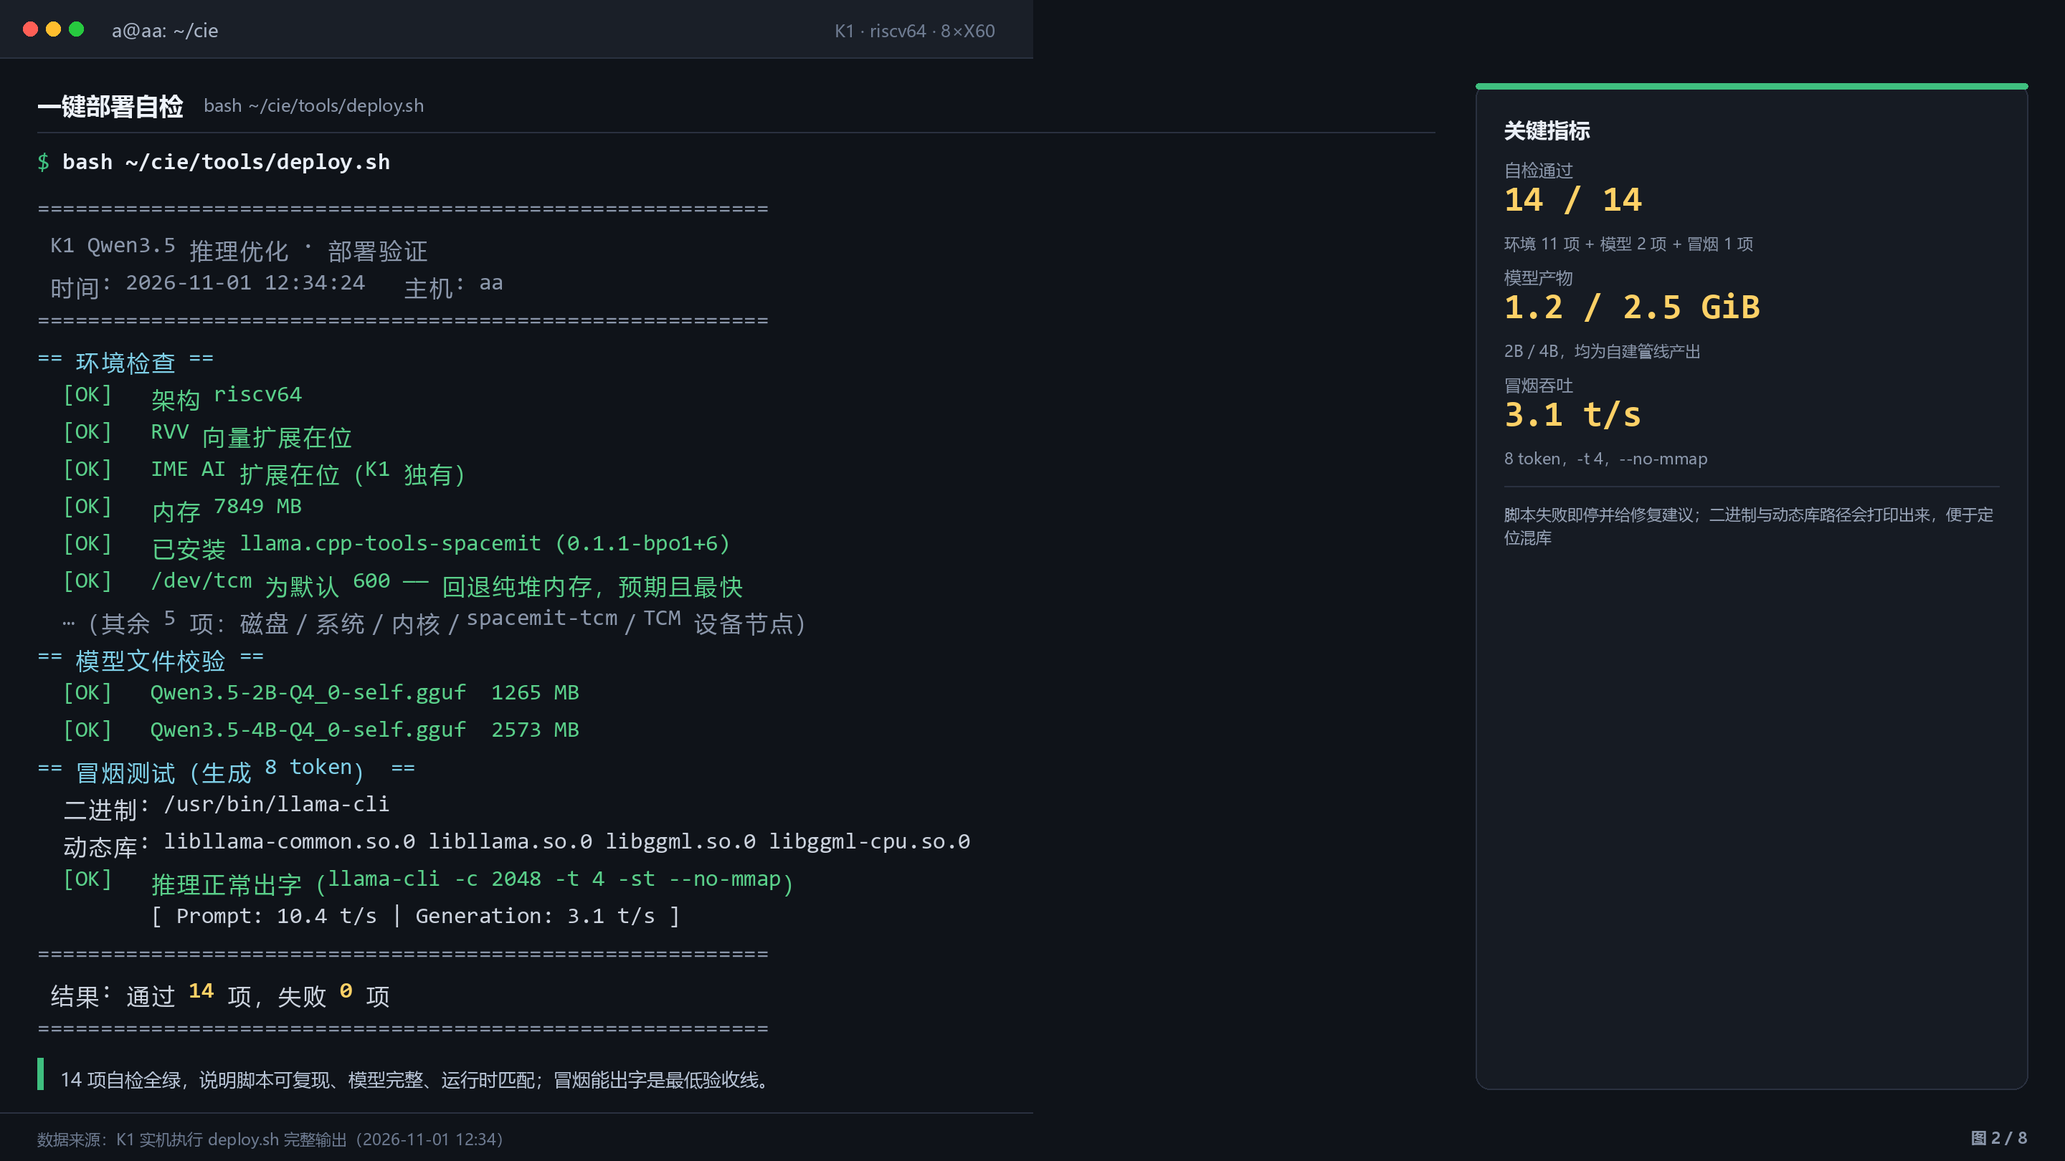
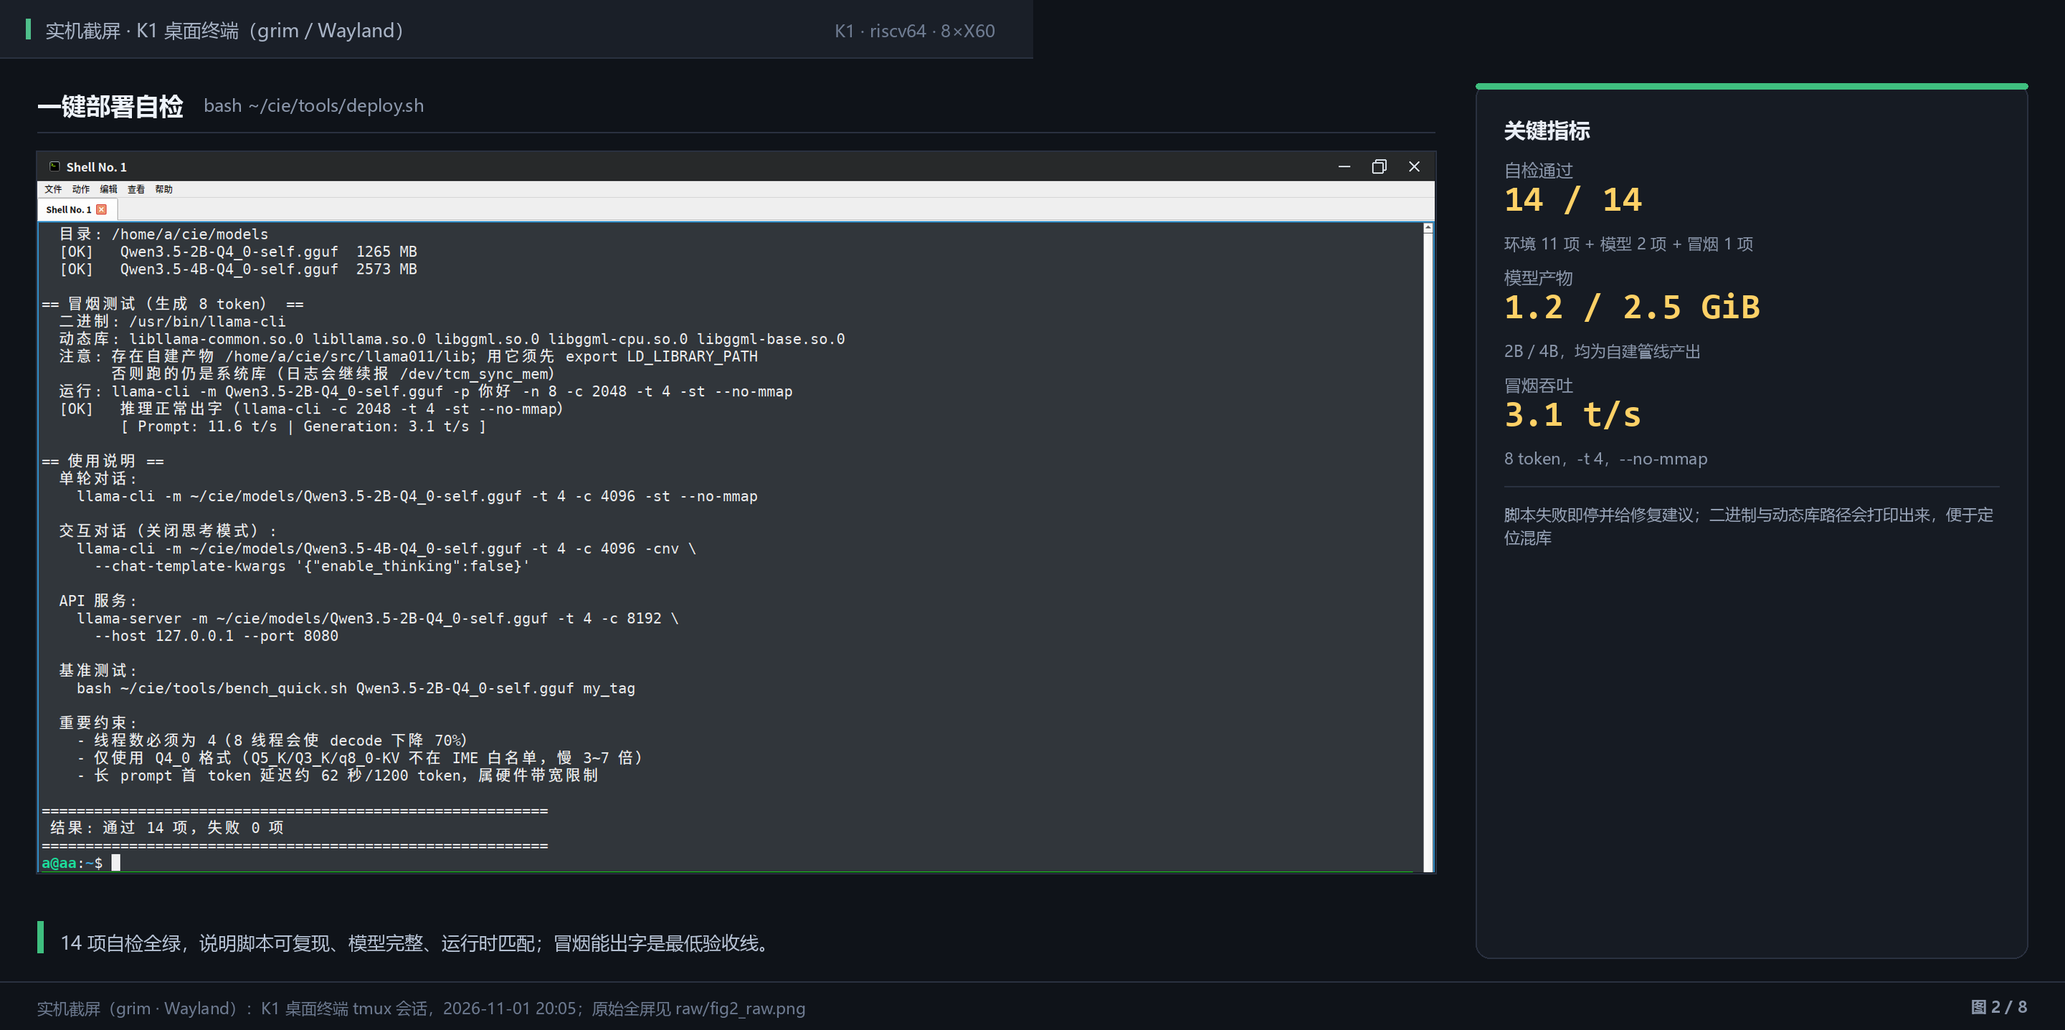
feat(demo): 图1~4 改为 K1 真机截屏；修复 deploy 冒烟在终端里误判失败
截屏方式：K1 是 Wayland（labwc），ffmpeg x11grab 只能抓到空的 Xwayland 根窗口，
改用 grim + tmux send-keys 逐条敲命令，命令跑完后整屏截取；原始全屏图存 raw/。

同时修掉两个真 bug：
1. deploy.sh 冒烟在桌面终端里误判失败——llama.cpp 的 console 存在 /dev/tty 时
   直接写 tty，绕过 $(...) 管道，导致 SMOKE_OUT 为空、grep 不中，
   日志出现自相矛盾的「[FAIL] 正常」（rc 其实是 0）。修复：setsid 脱离控制终端 + </dev/null。
2. 该脚本此前被写成 CRLF 行尾，K1 的 bash 直接语法错误；已统一为 LF。

文档：DEPLOY.md §5.8 记录该陷阱与三种运行方式的对照表；
DEMO_SHOTS.md 改为「实机截屏 / 整理图」两类如实说明，图5~8 标注为非截屏。

diff --git a/tools/make_shots.py b/tools/make_shots.py
@@ -21,6 +21,7 @@ from PIL import Image, ImageDraw, ImageFont
 
 ROOT = os.path.dirname(os.path.dirname(os.path.abspath(__file__)))
 OUT = os.path.join(ROOT, "docs", "figs", "demo")
+RAW = os.path.join(OUT, "raw")
 
 # ---------------- 版式常量（逻辑像素，输出按 S 倍采样） ----------------
 S = 2
@@ -139,6 +140,24 @@ def wrap_px(text, font, maxw):
     return lines
 
 
+
+def autocrop_term(src, margin=28):
+    """裁掉终端里没有内容的空白行：从下往上找最后一行有亮像素的位置。"""
+    g = src.convert("L")
+    wx, wy = g.size
+    last = int(wy * 0.62)
+    px = g.load()
+    for y in range(min(wy - 30, 990), 55, -1):
+        hit = False
+        for x in range(30, wx - 30, 4):
+            if px[x, y] > 90:
+                hit = True
+                break
+        if hit:
+            last = y + margin
+            break
+    return src.crop((0, 0, wx, min(last, wy - 22)))
+
 def draw_card(d, card, x0, y0, x1, y1):
     r = 10 * S
     d.rounded_rectangle([x0, y0, x1, y1], radius=r, fill=C_CARD, outline=C_LINE, width=S)
@@ -182,7 +201,7 @@ def draw_card(d, card, x0, y0, x1, y1):
 def draw_takeaway(d, spec, x, right, near=None):
     text = spec.get("takeaway")
     if not text:
-        return
+        return None
     size = 13 * S
     f = F("cjk", size)
     lines = wrap_px(text, f, right - x - 18 * S)
@@ -194,6 +213,7 @@ def draw_takeaway(d, spec, x, right, near=None):
     for ln in lines:
         d.text((tx, y), ln, font=f, fill="#b8c4d6")
         y += 18 * S
+    return y
 
 # ---------------- 两种版式 ----------------
 def render_terminal(spec, path):
@@ -202,10 +222,15 @@ def render_terminal(spec, path):
 
     # 顶栏
     d.rectangle([0, 0, W, BAR_H * S], fill=C_BAR)
-    for i, col in enumerate(("#ff5f56", "#ffbd2e", "#27c93f")):
-        cx = (16 + i * 16) * S
-        d.ellipse([cx, 15 * S, cx + 10 * S, 25 * S], fill=col)
-    d.text((78 * S, 12 * S), spec["win"], font=F("cjk", 13 * S), fill="#a9b4c6")
+    if spec.get("chrome", True):
+        for i, col in enumerate(("#ff5f56", "#ffbd2e", "#27c93f")):
+            cx = (16 + i * 16) * S
+            d.ellipse([cx, 15 * S, cx + 10 * S, 25 * S], fill=col)
+        tx = 78 * S
+    else:
+        d.rectangle([18 * S, 13 * S, 21 * S, 27 * S], fill="#4fbf8b")
+        tx = 32 * S
+    d.text((tx, 12 * S), spec["win"], font=F("cjk", 13 * S), fill="#a9b4c6")
     d.text((W - PAD * S - F("cjk", 12 * S).getlength(spec["chip"]), 13 * S),
            spec["chip"], font=F("cjk", 12 * S), fill="#6f7c92")
     d.line([0, BAR_H * S, W, BAR_H * S], fill=C_LINE, width=S)
@@ -227,7 +252,7 @@ def render_terminal(spec, path):
     d.line([x, y, body_r * S, y], fill=C_LINE, width=S)
     y += 14 * S
 
-    for kind, text in spec["lines"]:
+    for kind, text in spec.get("lines", []):
         col, bold, is_prompt = KIND_STYLE.get(kind, (C_FG, False, False))
         if kind == "p":
             d.text((x, y), "$ ", font=F("mono", size), fill=C_GREEN)
@@ -240,16 +265,41 @@ def render_terminal(spec, path):
         draw_term_line(d, x, y, text, size, col, adv, bold)
         y += lh
 
-    draw_takeaway(d, spec, x, body_r * S)
+    shotfile = spec.get("shot")
+    if shotfile:
+        src = Image.open(shotfile).convert("RGB")
+        box = spec.get("shot_crop")
+        if box:
+            src = src.crop(box)
+        if spec.get("autocrop", True):
+            src = autocrop_term(src)
+        top = y
+        avail_w = (body_r - PAD) * S
+        avail_h = (H - FOOT_H - 58) * S - top
+        sc = min(avail_w / src.width, avail_h / src.height)
+        src = src.resize((int(src.width * sc), int(src.height * sc)), Image.LANCZOS)
+        d.rectangle([x - S, top - S, x + src.width + S, top + src.height + S], outline=C_LINE, width=S)
+        img.paste(src, (int(x), int(top)))
+        y = top + src.height
+
+    y_end = draw_takeaway(d, spec, x, body_r * S, near=(y if shotfile else None))
+
+    # 截图图按内容裁掉多余下边，避免大片空白
+    if shotfile and y_end:
+        need = int(y_end + 18 * S + FOOT_H * S)
+        if need < img.height:
+            img = img.crop((0, 0, img.width, need))
+            d = ImageDraw.Draw(img)
+    bottom = img.height
 
     if card:
-        draw_card(d, card, int(W * 0.715) * S, (BAR_H + 18) * S, (W - PAD) * S, (H - FOOT_H - 16) * S)
+        draw_card(d, card, int(W * 0.715) * S, (BAR_H + 18) * S, (W - PAD) * S, bottom - (FOOT_H + 16) * S)
 
     # 底栏
-    d.line([0, (H - FOOT_H) * S, W, (H - FOOT_H) * S], fill=C_LINE, width=S)
-    d.text((PAD * S, (H - FOOT_H + 11) * S), spec["source"], font=F("cjk", 11 * S), fill="#6d7a90")
+    d.line([0, bottom - FOOT_H * S, W * S, bottom - FOOT_H * S], fill=C_LINE, width=S)
+    d.text((PAD * S, bottom - FOOT_H * S + 11 * S), spec["source"], font=F("cjk", 11 * S), fill="#6d7a90")
     tag = "图 %s" % spec["no"]
-    d.text((W * S - PAD * S - F("cjkb", 11 * S).getlength(tag), (H - FOOT_H + 10) * S),
+    d.text((W * S - PAD * S - F("cjkb", 11 * S).getlength(tag), bottom - FOOT_H * S + 10 * S),
            tag, font=F("cjkb", 11 * S), fill="#8b97ab")
 
     os.makedirs(os.path.dirname(path), exist_ok=True)
@@ -339,10 +389,15 @@ def render_table(spec, path):
     img = Image.new("RGB", (W * S, H * S), C_BG)
     d = ImageDraw.Draw(img)
     d.rectangle([0, 0, W, BAR_H * S], fill=C_BAR)
-    for i, col in enumerate(("#ff5f56", "#ffbd2e", "#27c93f")):
-        cx = (16 + i * 16) * S
-        d.ellipse([cx, 15 * S, cx + 10 * S, 25 * S], fill=col)
-    d.text((78 * S, 12 * S), spec["win"], font=F("cjk", 13 * S), fill="#a9b4c6")
+    if spec.get("chrome", True):
+        for i, col in enumerate(("#ff5f56", "#ffbd2e", "#27c93f")):
+            cx = (16 + i * 16) * S
+            d.ellipse([cx, 15 * S, cx + 10 * S, 25 * S], fill=col)
+        tx = 78 * S
+    else:
+        d.rectangle([18 * S, 13 * S, 21 * S, 27 * S], fill="#e8b33c")
+        tx = 32 * S
+    d.text((tx, 12 * S), spec["win"], font=F("cjk", 13 * S), fill="#a9b4c6")
     d.text((W - PAD * S - F("cjk", 12 * S).getlength(spec["chip"]), 13 * S),
            spec["chip"], font=F("cjk", 12 * S), fill="#6f7c92")
     d.line([0, BAR_H * S, W, BAR_H * S], fill=C_LINE, width=S)
@@ -402,31 +457,12 @@ def shot(**kw):
 
 # 图 1 —— 环境身份
 shot(
-    id="fig1", no="1 / 8", win=WIN, chip=CHIP,
+    id="fig1", chrome=False, win="实机截屏 · K1 桌面终端（grim / Wayland）", no="1 / 8", chip=CHIP,
     title="环境与硬件身份",
     sub="Bianbu 2.3.5 · Linux 6.6.63 · 8 × X60 @1.6 GHz",
-    source="数据来源：K1 实机执行 uname / nproc / free / os-release / df / /proc/cpuinfo（2026-11-01）",
-    lines=[
-        ("p", "uname -srm"),
-        ("o", "Linux 6.6.63 riscv64"),
-        ("p", "nproc"),
-        ("o", "8"),
-        ("p", "free -m | head -2"),
-        ("o", "               total        used        free      shared  buff/cache   available"),
-        ("o", "Mem:            7849         862        2864          48        4346        6986"),
-        ("p", "head -3 /etc/os-release"),
-        ("o", 'PRETTY_NAME="Bianbu 2.3.5"'),
-        ("o", 'NAME="Bianbu"'),
-        ("o", 'VERSION_ID="2.3.5"'),
-        ("p", "df -h / | tail -1"),
-        ("o", "/dev/nvme0n1p6  118G   48G   64G  44% /"),
-        ("p", "grep -m1 '^isa' /proc/cpuinfo"),
-        ("o", "isa  : rv64imafdcv_zicbom_zicboz_zicntr_zicond_zicsr_zifencei_zihintpause"),
-        ("o", "       _zihpm_zfh_zfhmin_zca_zcd_zba_zbb_zbc_zbs_zkt_zve32f_zve32x_zve64d"),
-        ("o", "       _zve64f_zve64x_zvfh_zvfhmin_zvkt_sscofpmf_sstc_svinval_svnapot"),
-        ("o", "       _svpbmt_**ime**"),
-        ("d", "       ↑ RVV（_v / _zve*）与 IME（_ime）同时在位，是后续加速的前提"),
-    ],
+    source="实机截屏（grim · Wayland）：K1 桌面终端 tmux 会话，2026-11-01 13:35；原始全屏见 raw/fig1_raw.png",
+    shot=os.path.join(RAW, "fig1_raw.png"),
+    shot_crop=(0, 0, 1920, 1012),
     card={
         "title": "关键指标",
         "items": [
@@ -441,36 +477,12 @@ shot(
 
 # 图 2 —— 一键部署自检
 shot(
-    id="fig2", no="2 / 8", win=WIN, chip=CHIP,
+    id="fig2", chrome=False, win="实机截屏 · K1 桌面终端（grim / Wayland）", no="2 / 8", chip=CHIP,
     title="一键部署自检",
     sub="bash ~/cie/tools/deploy.sh",
-    source="数据来源：K1 实机执行 deploy.sh 完整输出（2026-11-01 12:34）",
-    lines=[
-        ("p", "bash ~/cie/tools/deploy.sh"),
-        ("d", "=========================================================="),
-        ("d", " K1 Qwen3.5 推理优化 · 部署验证"),
-        ("d", " 时间: 2026-11-01 12:34:24   主机: aa"),
-        ("d", "=========================================================="),
-        ("t", "== 环境检查 =="),
-        ("ok", "  [OK]   架构 riscv64"),
-        ("ok", "  [OK]   RVV 向量扩展在位"),
-        ("ok", "  [OK]   IME AI 扩展在位（K1 独有）"),
-        ("ok", "  [OK]   内存 7849 MB"),
-        ("ok", "  [OK]   已安装 llama.cpp-tools-spacemit (0.1.1-bpo1+6)"),
-        ("ok", "  [OK]   /dev/tcm 为默认 600 —— 回退纯堆内存，预期且最快"),
-        ("d", "  …（其余 5 项：磁盘／系统／内核／spacemit-tcm／TCM 设备节点）"),
-        ("t", "== 模型文件校验 =="),
-        ("ok", "  [OK]   Qwen3.5-2B-Q4_0-self.gguf  1265 MB"),
-        ("ok", "  [OK]   Qwen3.5-4B-Q4_0-self.gguf  2573 MB"),
-        ("t", "== 冒烟测试（生成 8 token） =="),
-        ("o", "  二进制: /usr/bin/llama-cli"),
-        ("o", "  动态库: libllama-common.so.0 libllama.so.0 libggml.so.0 libggml-cpu.so.0"),
-        ("ok", "  [OK]   推理正常出字（llama-cli -c 2048 -t 4 -st --no-mmap）"),
-        ("o", "         [ Prompt: 10.4 t/s | Generation: 3.1 t/s ]"),
-        ("d", "=========================================================="),
-        ("o", " 结果: 通过 **14** 项，失败 **0** 项"),
-        ("d", "=========================================================="),
-    ],
+    source="实机截屏（grim · Wayland）：K1 桌面终端 tmux 会话，2026-11-01 20:05；原始全屏见 raw/fig2_raw.png",
+    shot=os.path.join(RAW, "fig2_raw.png"),
+    shot_crop=(0, 0, 1920, 1012),
     card={
         "title": "关键指标",
         "items": [
@@ -484,30 +496,12 @@ shot(
 
 # 图 3 —— 量化类型根因
 shot(
-    id="fig3", no="3 / 8", win=WIN, chip=CHIP,
+    id="fig3", chrome=False, win="实机截屏 · K1 桌面终端（grim / Wayland）", no="3 / 8", chip=CHIP,
     title="根因：量化类型是否在 IME 白名单内",
     sub="python3 tools/gguf_types.py（mmap 直读头部，秒级）",
-    source="数据来源：K1 实机对两个 GGUF 执行 gguf_types.py 的完整输出",
-    lines=[
-        ("p", "# 官方下载的 Q4_0"),
-        ("p", "python3 tools/gguf_types.py models/Qwen3.5-2B-Q4_0.gguf"),
-        ("o", "=== Qwen3.5-2B-Q4_0.gguf"),
-        ("o", "    GGUF v3, 320 张量, 类型分布: {'F32': 133, 'Q6_K': 1, 'Q4_0': 129, 'Q4_1': 3, 'Q8_0': 36, 'Q5_K': 18}"),
-        ("e", "    二维权重张量 187 个；不在 IME 白名单内 **55** 个 {'Q6_K': 1, 'Q8_0': 36, 'Q5_K': 18}"),
-        ("o", "      token_embd.weight          Q6_K   (2048, 248320)"),
-        ("o", "      blk.0.ssm_alpha.weight     Q8_0   (2048, 16)"),
-        ("o", "      blk.0.ssm_out.weight       Q5_K   (2048, 2048)"),
-        ("o", "      blk.0.ffn_down.weight      Q4_1   (6144, 2048)"),
-        ("p", "# 自建管线产物（统一 Q4_0，embd 走 Q8_0）"),
-        ("p", "python3 tools/gguf_types.py models/Qwen3.5-2B-Q4_0-self.gguf"),
-        ("o", "=== Qwen3.5-2B-Q4_0-self.gguf"),
-        ("o", "    GGUF v3, 320 张量, 类型分布: {'F32': 133, 'Q8_0': 1, 'Q4_0': 186}"),
-        ("ok", "    二维权重张量 187 个；不在 IME 白名单内 **1** 个 {'Q8_0': 1}"),
-        ("o", "      token_embd.weight          Q8_0   (2048, 248320)"),
-        ("o", "      blk.0.ssm_alpha.weight     Q4_0   (2048, 16)"),
-        ("o", "      blk.0.ssm_out.weight       Q4_0   (2048, 2048)"),
-        ("o", "      blk.0.ffn_down.weight      Q4_0   (6144, 2048)"),
-    ],
+    source="实机截屏（grim · Wayland）：K1 桌面终端 tmux 会话，2026-11-01 13:36；原始全屏见 raw/fig3_raw.png",
+    shot=os.path.join(RAW, "fig3_raw.png"),
+    shot_crop=(0, 0, 1920, 1012),
     card={
         "title": "关键差异",
         "items": [
@@ -521,30 +515,16 @@ shot(
 
 # 图 4 —— 端到端出字
 shot(
-    id="fig4", no="4 / 8", win=WIN, chip=CHIP,
+    id="fig4", chrome=False, win="实机截屏 · K1 桌面终端（grim / Wayland）", no="4 / 8", chip=CHIP,
     title="端到端推理：中文输出正常",
-    sub="llama-cli -t 4 -st --no-mmap（未裁剪原文，见底部说明）",
-    source="数据来源：K1 实机 llama-cli 完整输出（2026-11-01，-n 260，含思考过程）",
-    lines=[
-        ("p", "llama-cli -m models/Qwen3.5-2B-Q4_0-self.gguf -p 你好 -n 260 -c 1024 -t 4 -st --no-mmap"),
-        ("o", "> 你好"),
-        ("d", ""),
-        ("d", " | - \\ | / ... [Start thinking]"),
-        ("d", " 嗯，用户突然发来“你好”，这是一个非常简短的开场白。根据我的知识库，我需要判断用户的意图。"),
-        ("d", " 首先，用户可能只是想打招呼，或者需要帮助。考虑到之前的对话历史……"),
-        ("c", " （思考过程共 8 段，此处从略；下面直接看它最终的回复）"),
-        ("d", " [End thinking]"),
-        ("o", ""),
-        ("ok", " 你好呀！我是 Qwen3.5，很高兴为你提供帮助。有什么我可以帮你的吗？"),
-        ("ok", " 比如你想讨论编程、逻辑推理、创意写作，或者其他任何问题？"),
-        ("o", ""),
-        ("o", " [ Prompt: 10.5 t/s | Generation: 2.7 t/s ]"),
-        ("o", " Exiting..."),
-    ],
+    sub="llama-cli -t 4 -st --no-mmap",
+    source="实机截屏（grim · Wayland）：K1 桌面终端 tmux 会话，2026-11-01 13:41；原始全屏见 raw/fig4_raw.png",
+    shot=os.path.join(RAW, "fig4_raw.png"),
+    shot_crop=(0, 0, 1920, 1012),
     card={
         "title": "关键指标",
         "items": [
-            ("2B 生成", "2.7 t/s", "-n 260 长输出实测，与 bench 2.80 一致"),
+            ("2B 生成", "2.8 t/s", "-n 260 长输出实测，与 bench 2.80 一致"),
             ("4B 生成", "1.4 t/s", "同参数 -n 40 实测，与 bench 1.43 一致"),
             ("输出质量", "无乱码 · 无重复", "词表 / 对话模板 / MTP 剥离均正确"),
         ],
@@ -554,7 +534,7 @@ shot(
 
 # 图 5 —— 2B 官方 vs 自产
 shot(
-    id="fig5", no="5 / 8", win=WIN, chip=CHIP, layout="table",
+    id="fig5", chrome=False, win="整理图（非截屏）· 数据来自 results/ 归档记录", no="5 / 8", chip=CHIP, layout="table",
     title="2B：官方 Q4_0 与自产 Q4_0 对比",
     sub="llama-bench -t 4 -p 64,512 -n 128 -fa 1 -r 3",
     source="数据来源：results/ 归档 bench 记录整理（同一运行时 0.1.1，批次差异 ±3%）",
@@ -584,7 +564,7 @@ shot(
 
 # 图 6 —— 4B 官方 vs 自产
 shot(
-    id="fig6", no="6 / 8", win=WIN, chip=CHIP, layout="table",
+    id="fig6", chrome=False, win="整理图（非截屏）· 数据来自 results/ 归档记录", no="6 / 8", chip=CHIP, layout="table",
     title="4B：官方 Q4_0 与自产 Q4_0 对比",
     sub="llama-bench -t 4 -p 64,512 -n 128 -fa 1 -r 2",
     source="数据来源：results/bench_4b_*.txt 归档记录整理（同一运行时 0.1.1）",
@@ -614,7 +594,7 @@ shot(
 
 # 图 7 —— 长上下文衰减
 shot(
-    id="fig7", no="7 / 8", win=WIN, chip=CHIP, layout="table",
+    id="fig7", chrome=False, win="整理图（非截屏）· 数据来自 results/ 归档记录", no="7 / 8", chip=CHIP, layout="table",
     title="长上下文下的优势保持情况",
     sub="llama-bench -p 512 -n 64 -d <depth> -t 4 -fa 1",
     source="数据来源：results/bench_depth_self.txt 与官方同参数记录（2026-10-30）",
@@ -642,7 +622,7 @@ shot(
 
 # 图 8 —— 负结果排除矩阵
 shot(
-    id="fig8", no="8 / 8", win=WIN, chip=CHIP, layout="table",
+    id="fig8", chrome=False, win="整理图（非截屏）· 数据来自 results/ 归档记录", no="8 / 8", chip=CHIP, layout="table",
     title="四条候选路径被实测排除，优化点收敛到单一变量",
     sub="先证伪，再优化：负结果同样是结论",
     source="数据来源：技术文档 §8.2 / §8.3 / §9.4 与 PATCH_TCM.md §10.5 的实测记录",
@@ -682,8 +662,8 @@ TAKEAWAY = {
 # ---------------- 入口 ----------------
 def fill_dynamic():
     """把实机采集到的文本/温度填入 fig4、fig8。"""
-    sm2 = os.path.join(ROOT, "docs", "figs", "demo", ".smoke2b.txt")
-    sm4 = os.path.join(ROOT, "docs", "figs", "demo", ".smoke4b.txt")
+    sm2 = os.path.join(OUT, ".smoke2b.txt")
+    sm4 = os.path.join(OUT, ".smoke4b.txt")
     lines = []
     for tag, path, model in (("2B", sm2, "Qwen3.5-2B-Q4_0-self.gguf"),
                              ("4B", sm4, "Qwen3.5-4B-Q4_0-self.gguf")):

diff --git a/docs/DEPLOY.md b/docs/DEPLOY.md
@@ -420,6 +420,40 @@ LD_LIBRARY_PATH=$HOME/cie/src/llama011/lib \
 两条路径都能正常出字 → 若出现 core dump，问题在**当次 shell 的环境态**，与模型文件、TCM patch、`/dev/tcm` 权限均无关。
 换一个干净 shell（`env -u LD_LIBRARY_PATH bash ~/cie/tools/deploy.sh smoke`）即可验证。
 
+### 5.8 冒烟测试在桌面终端里"明明出字却判失败"
+
+**现象**：在桌面终端（qterminal / tmux）里跑 `deploy.sh`，冒烟环节屏幕上明明打印了
+`[ Prompt: 11.6 t/s | Generation: 3.1 t/s ]` 和 `Exiting...`，脚本却报
+`[FAIL] 正常` → `冒烟失败（3 种组合均未出字）`，最终 `通过 13 项，失败 1 项`；
+同一个脚本用 `ssh host 'bash deploy.sh'` 跑却是 14/14。
+
+**根因**：llama.cpp 的 console 在**存在控制终端**时会直接写 `/dev/tty`，
+绕过 `$(...)` 命令替换建立的管道。于是：
+
+- 屏幕上：输出正常（走的是 tty）
+- `SMOKE_OUT` 变量：空字符串
+- 判定：`grep -qiE 'Generation:|Exiting'` 不中 → 判失败，但退出码其实是 0
+
+所以日志里会出现自相矛盾的 `[FAIL] 正常`（"正常"是 `rc_desc 0` 的翻译）。
+
+**三种运行方式的结果**：
+
+| 运行方式 | 有无控制终端 | 冒烟判定 |
+|---|---|---|
+| 桌面终端 / tmux / 脚本内的 `$(...)` | 有 | 屏幕有字，变量为空 → **误判失败** |
+| `ssh host 'bash deploy.sh'` | 无 | 正常捕获 → 14/14 |
+| 桌面终端 + `setsid` | 无（已脱离） | 正常捕获 → 14/14 |
+
+**修复**（2026-11-01，`run_smoke` 内已加）：
+
+```bash
+local pre=""; command -v setsid >/dev/null 2>&1 && pre="setsid"
+SMOKE_OUT=$(timeout 180 $pre "$bin" ... </dev/null 2>&1)
+```
+
+`setsid` 让子进程脱离控制终端，`/dev/tty` 不可用后 console 回落到 stdout；`</dev/null` 顺手关掉 stdin。
+**凡是"在脚本里用 `$(...)` 包 llama-cli/llama-bench"的场合都应照此办理**，否则捕获会静默为空。
+
 ---
 
 ## 6. 复现性记录
